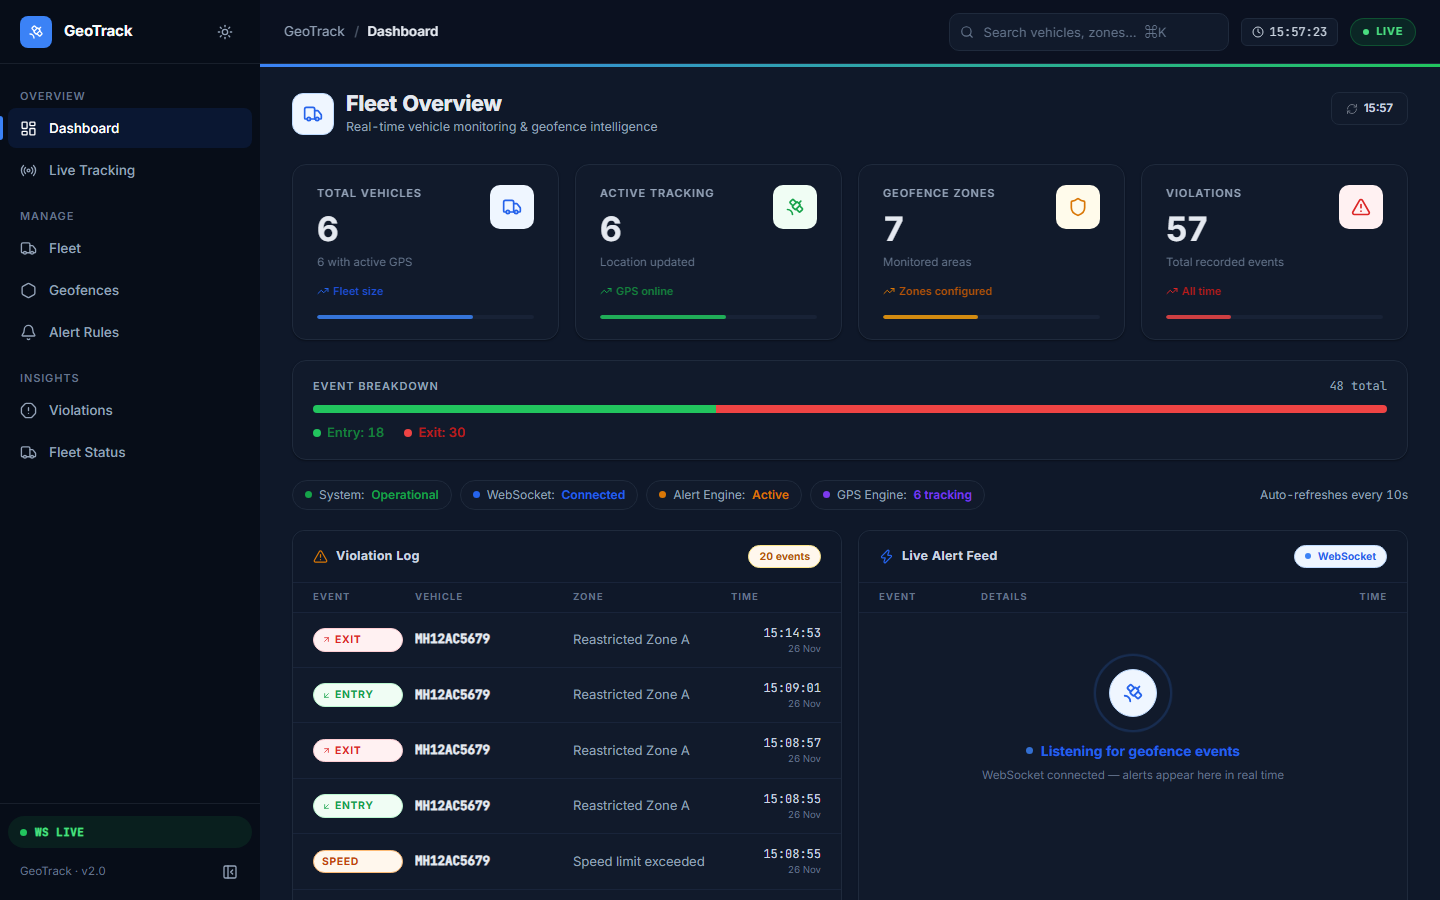
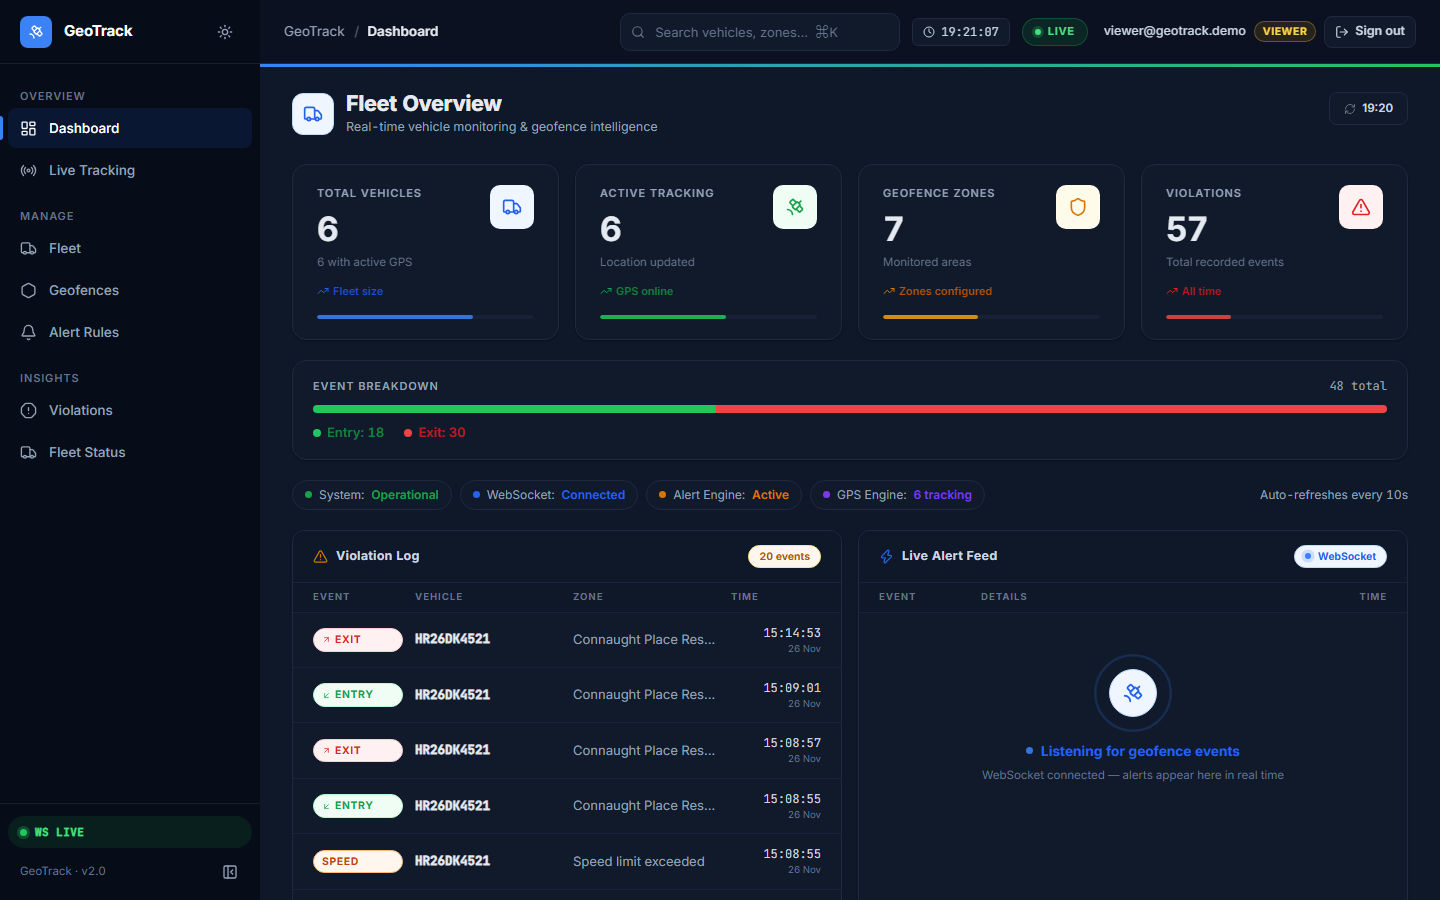
docs: final README with screenshots and demo notes

diff --git a/README.md b/README.md
@@ -9,6 +9,23 @@ GeoTrack tracks vehicles on a live map, lets you draw polygon geofences, and rai
 real-time alerts when a vehicle **enters or exits** a zone or **exceeds the speed limit**.
 Alerts are stored in PostgreSQL and pushed to every open browser over a WebSocket.
 
+> ### 🚀 Try it
+>
+> **Live app:** https://geofencing-real-time-alert-system-umber.vercel.app
+>
+> | Read-only demo account | |
+> |---|---|
+> | Email | `viewer@geotrack.demo` |
+> | Password | `GeoTrack-Demo-2026` |
+>
+> Or click **Continue as demo viewer** on the login page. The account can browse everything but cannot change data.
+>
+> ⏳ Free hosting: the first request can take 30–50 seconds while the server wakes up. Please wait.
+
+## Demo video
+
+Demo video: coming soon
+
 ## Live demo
 
 | Part | URL |
@@ -17,8 +34,9 @@ Alerts are stored in PostgreSQL and pushed to every open browser over a WebSocke
 | API (Render) | https://geofencing-real-time-alert-system-h1vz.onrender.com |
 | API health check | https://geofencing-real-time-alert-system-h1vz.onrender.com/health |
 
-> The API runs on Render's free tier and sleeps when idle. The first request after a
-> pause can take ~30 seconds; the UI shows a "Waking up server…" message and retries.
+> Free hosting par pehli request ko 30-50 second lag sakte hain (server wake-up). Kripya intezaar karein.
+>
+> The API runs on Render's free tier and sleeps when idle; the UI shows a "Waking up server…" message and retries.
 
 ## Features
 
@@ -114,16 +132,8 @@ curl -H "Authorization: Bearer $TOKEN" $API/vehicles
 | `admin` | everything: read, register vehicles, draw geofences, create alert rules, send GPS updates |
 | `viewer` | read only (`GET`). Any `POST`/`PUT`/`DELETE` returns `403 FORBIDDEN`; the UI hides those controls |
 
-**Public demo account (read-only):**
-
-| | |
-|---|---|
-| Email | `viewer@geotrack.demo` |
-| Password | `GeoTrack-Demo-2026` |
-
-The login page also has a **Continue as demo viewer** button. This account can only read; admin credentials are
-never published. If you run your own copy, the demo user exists only when you set `DEMO_VIEWER_EMAIL` and
-`DEMO_VIEWER_PASSWORD` (see below).
+The read-only demo account is listed in the **Try it** box at the top. Admin credentials are never published. If you run
+your own copy, the demo user exists only when you set `DEMO_VIEWER_EMAIL` and `DEMO_VIEWER_PASSWORD` (see below).
 
 How it works: `POST /auth/login` checks the bcrypt hash and returns an HS256 JWT valid for **1 hour**
 (`JWT_SECRET` from the environment). The WebSocket cannot send headers from a browser, so it takes the token as
@@ -268,15 +278,27 @@ Existing accounts are never modified by these variables. To reset a password, de
 
 ## Screenshots
 
-Captured from the [live deployment](https://geofencing-real-time-alert-system-umber.vercel.app).
+Captured from the [live deployment](https://geofencing-real-time-alert-system-umber.vercel.app), signed in as the demo viewer.
 
-| Dashboard | Dark mode |
+### Desktop
+
+| Sign in | Dashboard |
 |---|---|
-| ![Dashboard](docs/screenshots/dashboard.png) | ![Dashboard in dark mode](docs/screenshots/dashboard-dark.png) |
+| ![Login page](docs/screenshots/login.png) | ![Dashboard](docs/screenshots/dashboard.png) |
+
+| Dashboard (dark mode) | Live tracking |
+|---|---|
+| ![Dashboard in dark mode](docs/screenshots/dashboard-dark.png) | ![Live tracking map](docs/screenshots/live-tracking.png) |
 
 | Geofences | Violation log |
 |---|---|
 | ![Geofences](docs/screenshots/geofences.png) | ![Violation log](docs/screenshots/violations.png) |
+
+### Mobile (390 × 844)
+
+| Dashboard | Live tracking |
+|---|---|
+| <img src="docs/screenshots/mobile-dashboard.png" width="260" alt="Mobile dashboard"> | <img src="docs/screenshots/mobile-live-tracking.png" width="260" alt="Mobile live tracking"> |
 
 ## Project structure
 
@@ -330,12 +352,10 @@ frontend/src/
   would only broadcast to its own clients).
 - **Geofence checks** scan every zone per update; PostGIS with a spatial index would scale that to thousands of zones.
 
-## Known limitations / future work
+## Future work
 
-- **No user management UI** — accounts come from environment variables; there is no sign-up, password reset or per-organisation data yet.
-- **No token refresh** — you are signed out after an hour. A refresh token (or a short-lived access token + httpOnly cookie) would fix that.
-- **Rate limiter, speed cooldown and WebSocket hub are in memory** — they reset on restart and are not shared across API instances (Redis would fix that).
-- **WebSocket accepts any origin** — it is protected by the token, but `CORS_ORIGINS` is not applied to its origin check.
-- **One shared alert stream** — every client receives every alert; per-user subscriptions would scale better.
-- **Simulated GPS** — locations come from the in-browser simulator (admin only), not real devices.
-- **Free-tier hosting** — cold starts on Render; a paid instance or a keep-alive ping would remove them.
+- **Refresh tokens + httpOnly cookies** — silent session renewal instead of signing out after an hour, and no token in `localStorage`.
+- **Redis pub/sub** — so the WebSocket hub, rate limiter and speed cooldown work across multiple API instances.
+- **PostGIS spatial queries** — spatial indexes instead of scanning every zone on each GPS update.
+- **Prometheus monitoring** — request, latency and WebSocket metrics with alerting.
+- **End-to-end tests** — browser tests (e.g. Playwright) for sign-in, live alerts and the role restrictions.
